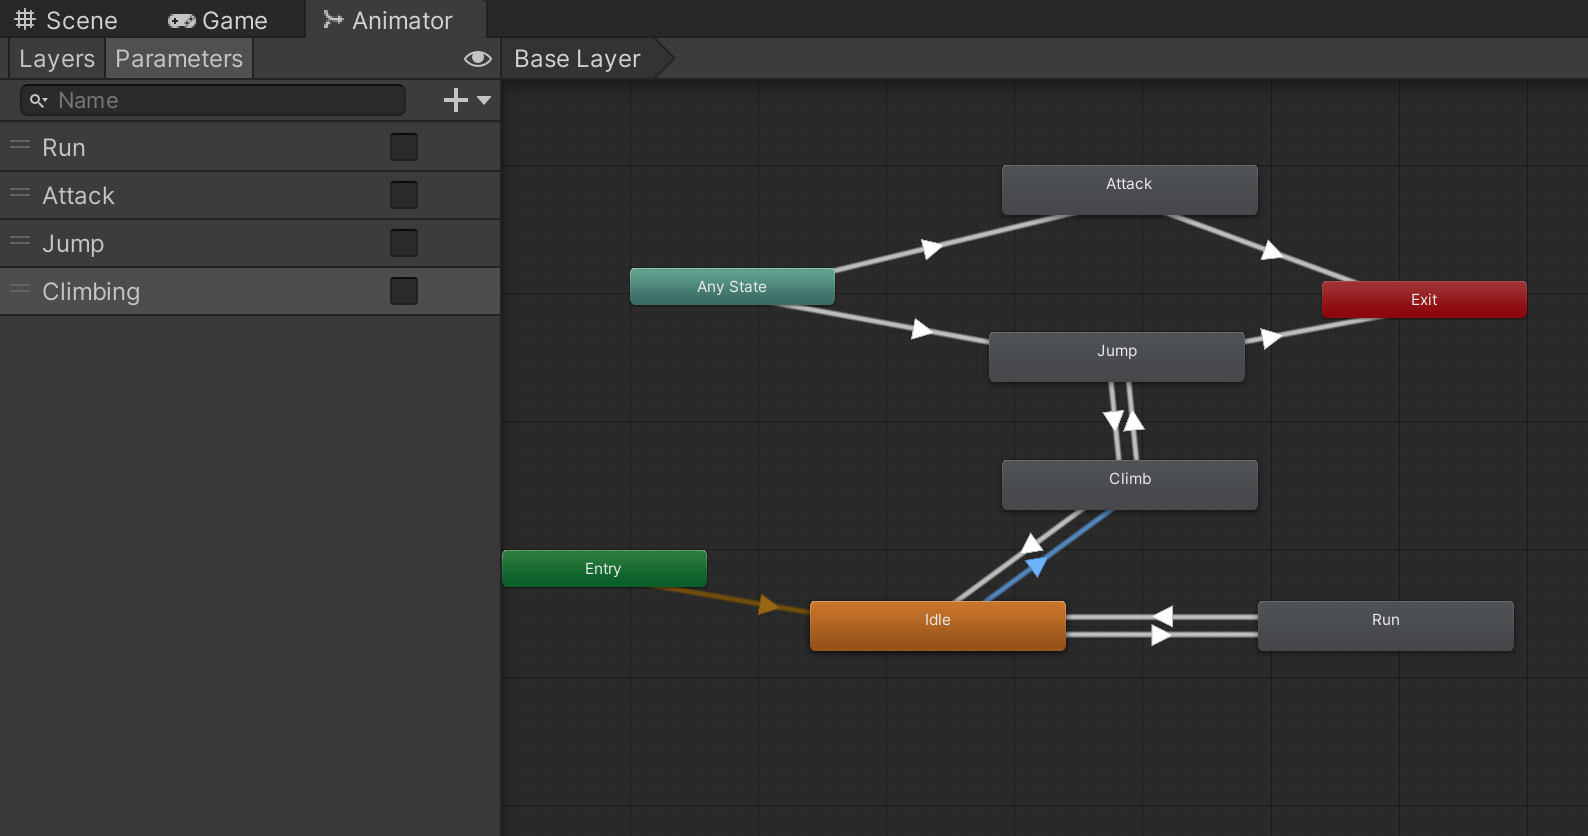
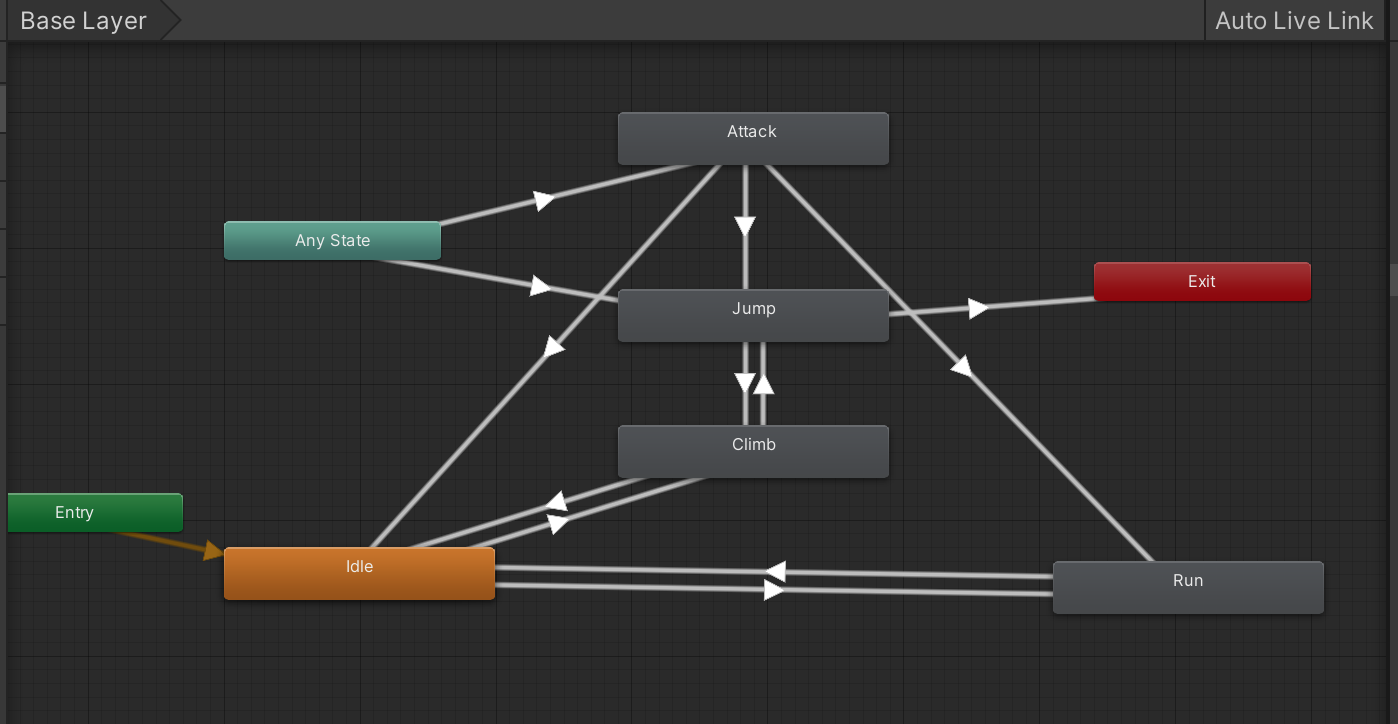
动画状态机

Changed region(s): [[0.0, 0.0, 1.0, 0.8508], [0.3383, 0.547, 0.3691, 0.6077]]

diff --git a/_posts/2024-10-28-unity2d-attack-20241028.md b/_posts/2024-10-28-unity2d-attack-20241028.md
@@ -113,7 +113,7 @@ public class PlayerAttack : MonoBehaviour
 
 ![](../media/image/2024-10-28/05.gif)
 
-优化的方法
+优化的方法：
 
 1. 将触发Attack 的逻辑修改为使用Trigger，而不是动画状态机的Bool 类型
 2. Attack 结束后不是到Exit，而是在动画状态机中具体连线到各个状态
@@ -123,10 +123,123 @@ public class PlayerAttack : MonoBehaviour
 
 ![](../media/image/2024-10-28/06.png)
 
-对应代码修改为
+对应代码修改为：
 
 ```c#
+using System.Collections;
+using System.Collections.Generic;
+using UnityEngine;
 
+public class PlayerAttack : MonoBehaviour
+{
+    public float damage = 2f;   // 伤害值
+
+    private Animator animator;
+    private PolygonCollider2D polygonCollider;
+
+    // Start is called before the first frame update
+    void Start()
+    {
+        animator = GameObject.FindGameObjectWithTag("Player").GetComponent<Animator>();
+
+        // 获取碰撞体，开始是关闭的，等攻击的时候再打开
+        polygonCollider = GetComponent<PolygonCollider2D>();
+        polygonCollider.enabled = false;
+    }
+
+    // Update is called once per frame
+    void Update()
+    {
+        // 按下【Shift】，进行攻击
+        if (Input.GetKeyDown(KeyCode.LeftShift))
+        {
+            animator.SetTrigger("Attack");
+            Debug.Log("Attack");
+
+            // 通过协程控制，攻击动画播放一定时间后触发碰撞框
+            StartCoroutine(StartAttackCoroutine());
+
+            // 通过协程控制，一定时间后攻击结束
+            StartCoroutine(StopAttackCoroutine());
+        }
+    }
+
+    IEnumerator StartAttackCoroutine()
+    {
+        // 经过测试大概动画0.3s后，光刀挥出来
+        yield return new WaitForSeconds(0.3f);  // 这里设置一个默认值，正常情况下应该是作为参数可配置的
+
+        // 开启攻击碰撞框
+        polygonCollider.enabled = true;
+    }
+
+    IEnumerator StopAttackCoroutine()
+    {
+        // 经过测试播放一次攻击动画大概0.5s
+        yield return new WaitForSeconds(0.5f);   // 这里设置一个默认值，正常情况下应该是作为参数可配置的
+
+        // 因为Attack是一个Trigger，所以这里不用在关闭了
+        //animator.SetBool("Attack", false);
+
+        // 关闭攻击碰撞框
+        polygonCollider.enabled = false;
+    }
+}
+```
+
+另外，因为相对于原来增加了Idle 这个Bool 变量，PlayerController.cs 的代码逻辑对应也要变化，主要是Update()
+
+需要注意的是，比如从Run 切换到Idle 状态，不光要将Idle 设置为True，还要把Run 设置为False，因为在动画状态机里面，如果在玩家不移动的时候，只将Idle 设置为True，不将Run 设置为False，那么Run 是True 就会一直在Idle 和Run 之间一直快速切换
+
+所以归根到底现在的代码太粗糙，对于状态的切换、状态的管理，后续一定要做好设计和封装！！
+
+```c#
+// Update is called once per frame
+void Update()
+{
+    float moveDir = Input.GetAxis("Horizontal");   // 水平轴，-1～1之间的值
+
+    // 通过刚体控制GameObject 位移
+    Vector2 playerVel = new Vector2(moveDir * runSpeed, rigidbody2D.velocity.y);
+    rigidbody2D.velocity = playerVel;
+
+    // 当按下【A】、【D】时移动
+    if (moveDir > 0.01 || moveDir < -0.01)
+    {
+        // 通过动画控制器切换动作
+        animator.SetBool("Run", true);
+        Debug.Log("Run");
+    }
+
+    Debug.Log("moveDir: " + moveDir);
+
+    // Run运动停止
+    if (moveDir > -0.01 && moveDir < 0.01)
+    {
+        // 因为上面将Run 设置为True 了，所以这里必须先将其设置为False，否则还是一直播放Run 动画！
+        animator.SetBool("Run", false);
+
+        Debug.Log("Idle");
+        if (true != animator.GetBool("Idle"))
+        {
+            animator.SetBool("Idle", true);
+        }
+    }
+
+    // 按下【Space】，进行跳跃
+    if (Input.GetKeyDown(KeyCode.Space))
+    {
+        animator.SetBool("Jump", true);
+
+        // 位置上移，给玩家y方向赋值（jumpSpeed暂定为7，具体值需要调整）
+        rigidbody2D.velocity = new Vector2(rigidbody2D.velocity.x, jumpSpeed);
+
+        //Debug.Log(rigidbody2D.velocity);
+
+        // 通过协程控制，一定时间后跳跃结束
+        StartCoroutine(StopJumpCoroutine());
+    }
+}
 ```
 
 >所以调试动画的效果还是很繁琐的，需要对于细节、时间点、代码逻辑做好全面的分析和把控

diff --git a/_posts/2024-12-15-2-climb-20241215.md b/_posts/2024-12-15-2-climb-20241215.md
@@ -117,12 +117,21 @@ public class PlayerController : MonoBehaviour
         {
             // 通过动画控制器切换动作
             animator.SetBool("Run", true);
+            Debug.Log("Run");
         }
+
+        Debug.Log("moveDir: " + moveDir);
 
         // Run运动停止
         if (moveDir > -0.01 && moveDir < 0.01)
         {
             animator.SetBool("Run", false);
+
+            Debug.Log("Idle");
+            if (true != animator.GetBool("Idle"))
+            {
+                animator.SetBool("Idle", true);
+            }
         }
 
         // 按下【Space】，进行跳跃
@@ -133,7 +142,7 @@ public class PlayerController : MonoBehaviour
             // 位置上移，给玩家y方向赋值（jumpSpeed暂定为7，具体值需要调整）
             rigidbody2D.velocity = new Vector2(rigidbody2D.velocity.x, jumpSpeed);
 
-            Debug.Log(rigidbody2D.velocity);
+            //Debug.Log(rigidbody2D.velocity);
 
             // 通过协程控制，一定时间后跳跃结束
             StartCoroutine(StopJumpCoroutine());
@@ -141,7 +150,7 @@ public class PlayerController : MonoBehaviour
 
         // 判断是否遇到了梯子
         isLadder = myFeet.IsTouchingLayers(LayerMask.GetMask("Ladder"));
-        Debug.Log("isLadder: " + isLadder);
+        //Debug.Log("isLadder: " + isLadder);
 
         // 判断玩家的一些状态
         isClimbing = animator.GetBool("Climbing");  // 是否正在爬梯子
@@ -151,7 +160,7 @@ public class PlayerController : MonoBehaviour
         if (isLadder)   // 是否在梯子旁边
         {
             float moveY = Input.GetAxis("Vertical");   // 垂直轴，-1～1之间的值
-            Debug.Log("moveY: " + moveY);
+            //Debug.Log("moveY: " + moveY);
             // 大于0.5向上爬；小于0.5向下爬
             if (moveY > 0.5f || moveY < -0.5f)
             {
